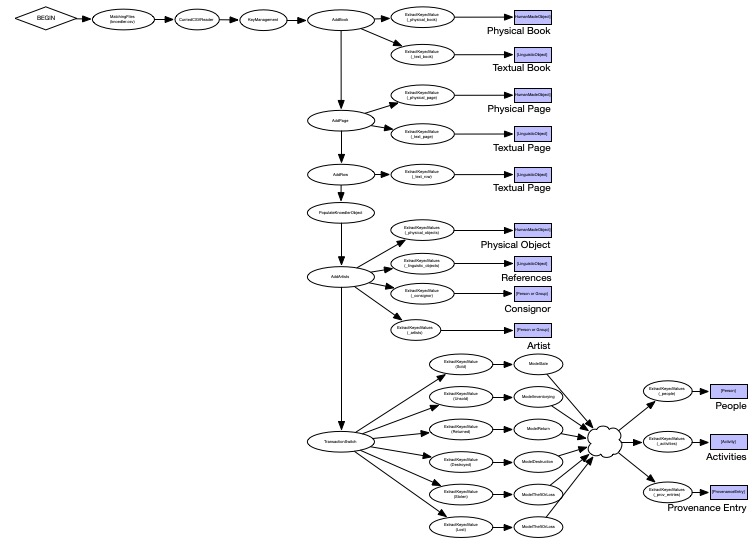
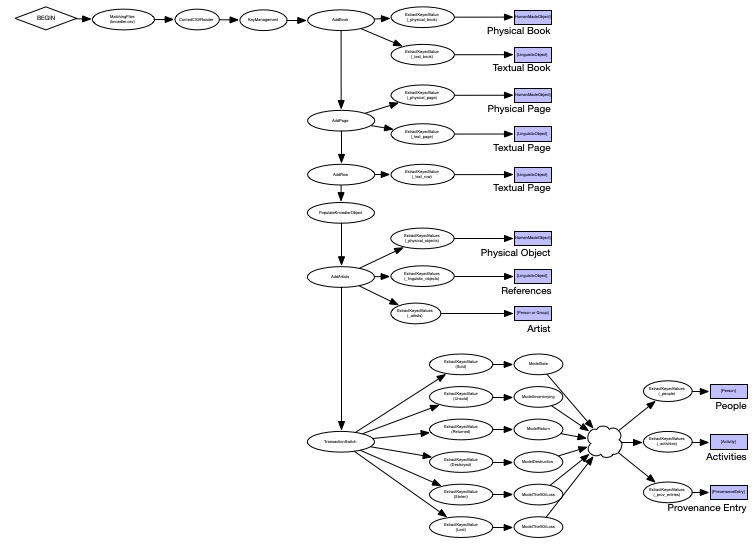
Update Knoedler code and docs to remove incorrect handling of consignor data.

Changed region(s): [[0.4868, 0.3682, 0.7302, 0.6444]]

diff --git a/pipeline/projects/knoedler/__init__.py b/pipeline/projects/knoedler/__init__.py
@@ -1494,7 +1494,7 @@ class KnoedlerPipeline(PipelineBase):
 			_input=hmos.output
 		)
 
-		consigners = graph.add_chain( ExtractKeyedValue(key='_consigner'), _input=objects.output )
+# 		consigners = graph.add_chain( ExtractKeyedValue(key='_consigner'), _input=objects.output )
 		artists = graph.add_chain(
 			ExtractKeyedValues(key='_artists'),
 			_input=objects.output
@@ -1504,7 +1504,7 @@ class KnoedlerPipeline(PipelineBase):
 			self.add_serialization_chain(graph, people.output, model=self.models['Person'])
 			self.add_serialization_chain(graph, hmos.output, model=self.models['HumanMadeObject'])
 			self.add_serialization_chain(graph, texts.output, model=self.models['LinguisticObject'])
-			self.add_serialization_chain(graph, consigners.output, model=self.models['Group'])
+# 			self.add_serialization_chain(graph, consigners.output, model=self.models['Group'])
 			self.add_serialization_chain(graph, artists.output, model=self.models['Person'])
 		return objects
 
